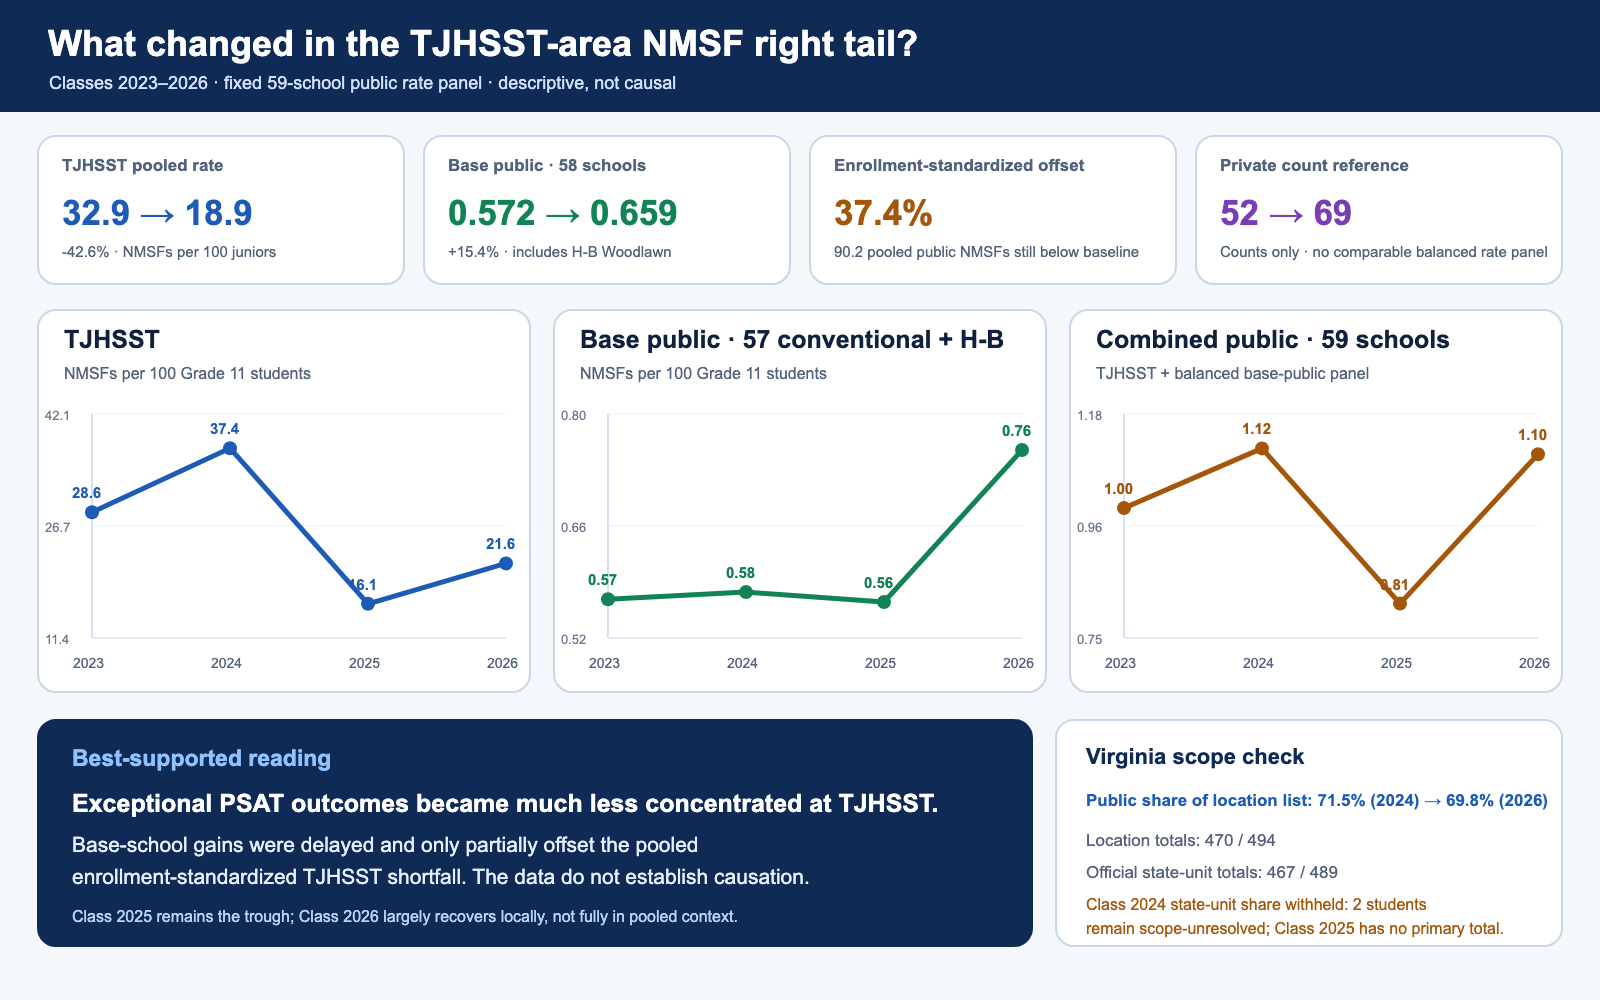
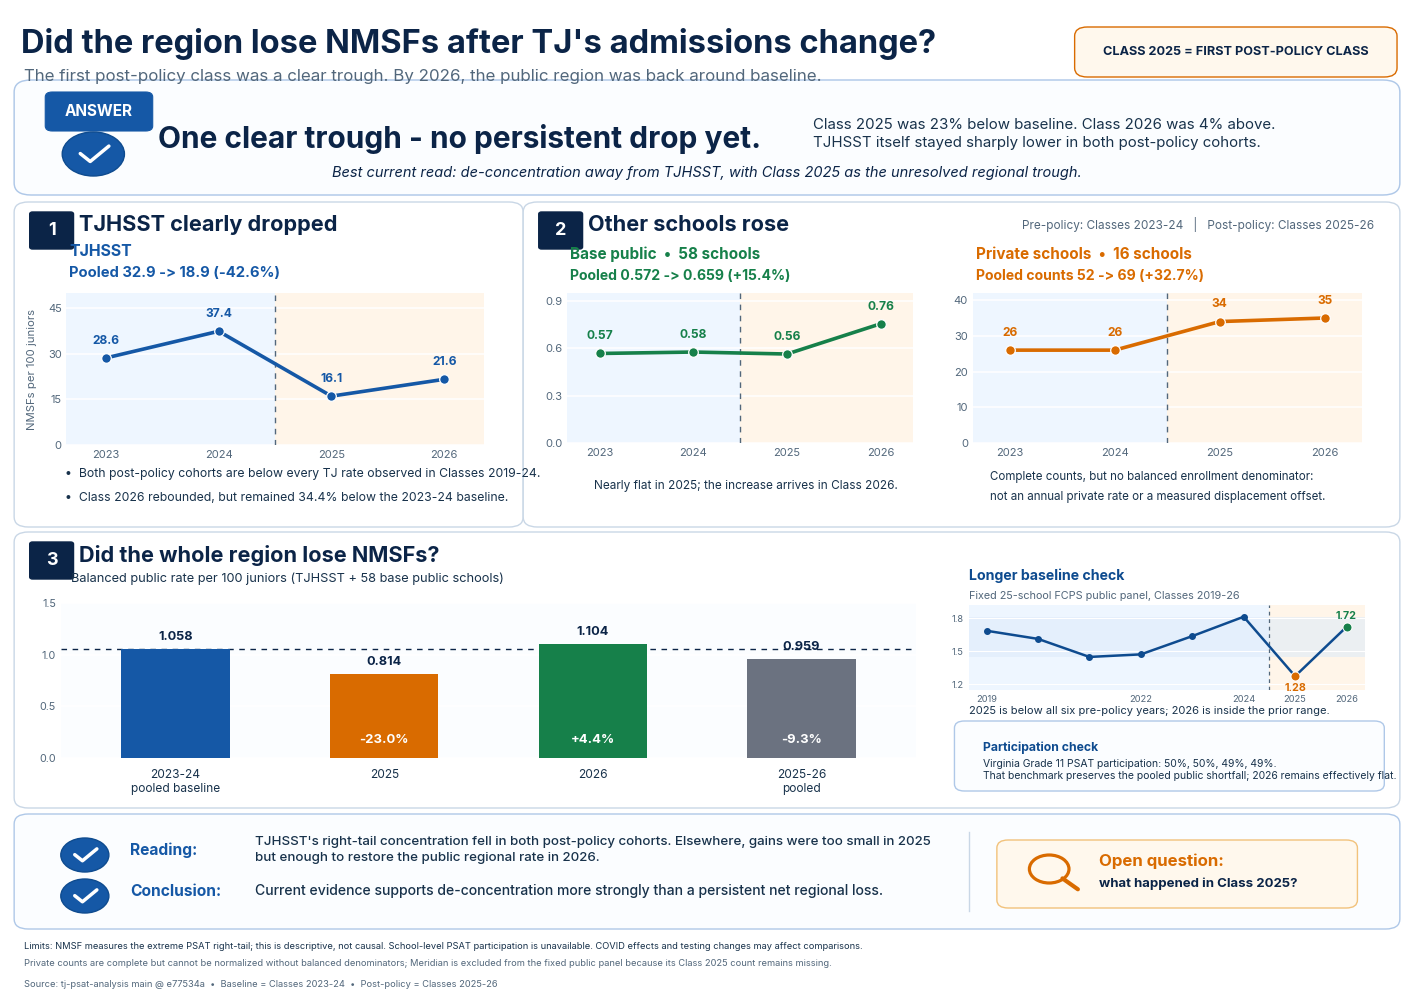
Update conclusion graphic

diff --git a/README.md b/README.md
@@ -1,6 +1,6 @@
 # TJHSST-Area PSAT Analysis
 
-![Summary of the main findings](reports/conclusion_graphic.svg)
+![Summary of the main findings](reports/conclusion_graphic.png)
 
 This repository builds a sourced, reproducible panel for studying National Merit
 Semifinalist (NMSF) outcomes in the TJHSST geographic area. It combines a
@@ -102,8 +102,8 @@ The repository intentionally keeps only two hand-maintained entry points:
   semantics.
 
 Analytical Markdown, CSV, and SVG outputs under `reports/` are generated from
-committed inputs. `reports/conclusion_graphic.svg` is the data-driven presentation
-graphic embedded above; `reports/conclusion_graphic.png` is its raster snapshot.
+committed inputs. `reports/conclusion_graphic.png` is the presentation graphic
+embedded above; `reports/conclusion_graphic.svg` is the reproducible vector summary.
 
 - `reports/analysis.md`: consolidated findings, robustness checks, limitations,
   and reproduction/integrity record.

diff --git a/LEARNINGS.md b/LEARNINGS.md
@@ -419,6 +419,11 @@
 - Action: Preserve source-school labels verbatim, represent `TS` as missing with 0-10 disclosure bounds rather than imputing a count, keep GPA summaries separate, and do not join the middle-school rows to high-school outcome rates.
 - Confidence: high
 
+**2026-07-18 - User-supplied conclusion graphic**
+- Observation: The approved presentation graphic can be a user-supplied PNG that differs in layout from the reproducible SVG generated by `scripts/build_conclusion_graphic.py`.
+- Action: When publishing an approved raster replacement, update both `reports/conclusion_graphic.png` and the README embed/description while retaining the generated SVG as the reproducible analytical reference.
+- Confidence: high
+
 ## What Has Failed
 
 **2026-06-19 - CI formatting check**